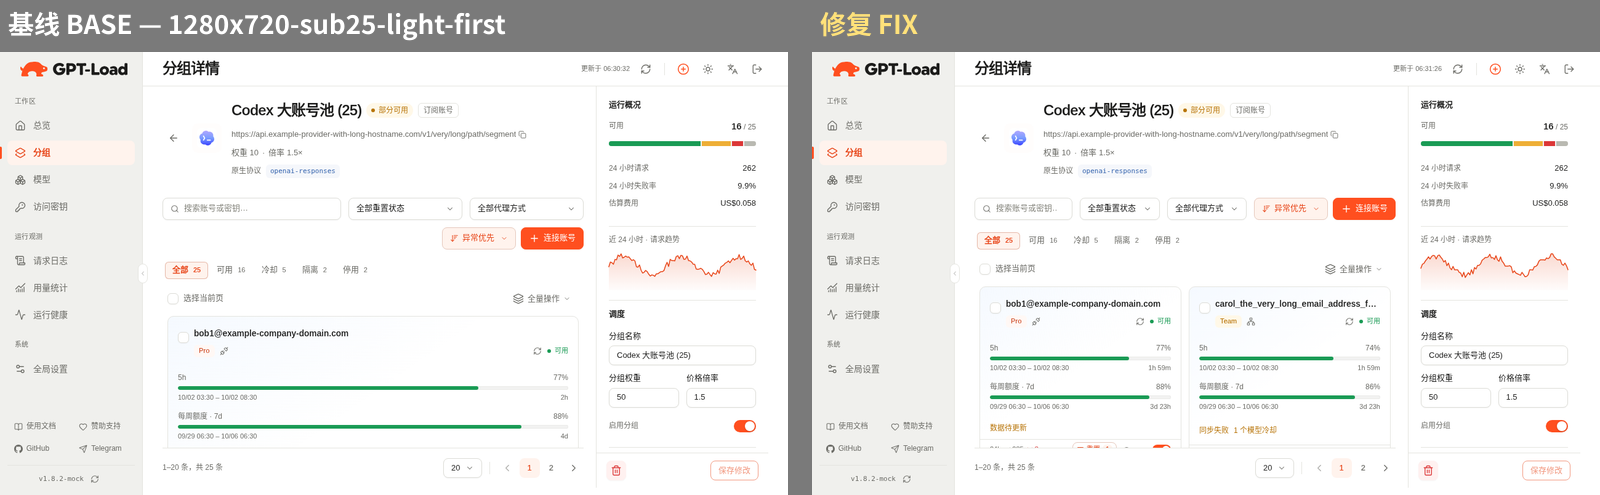
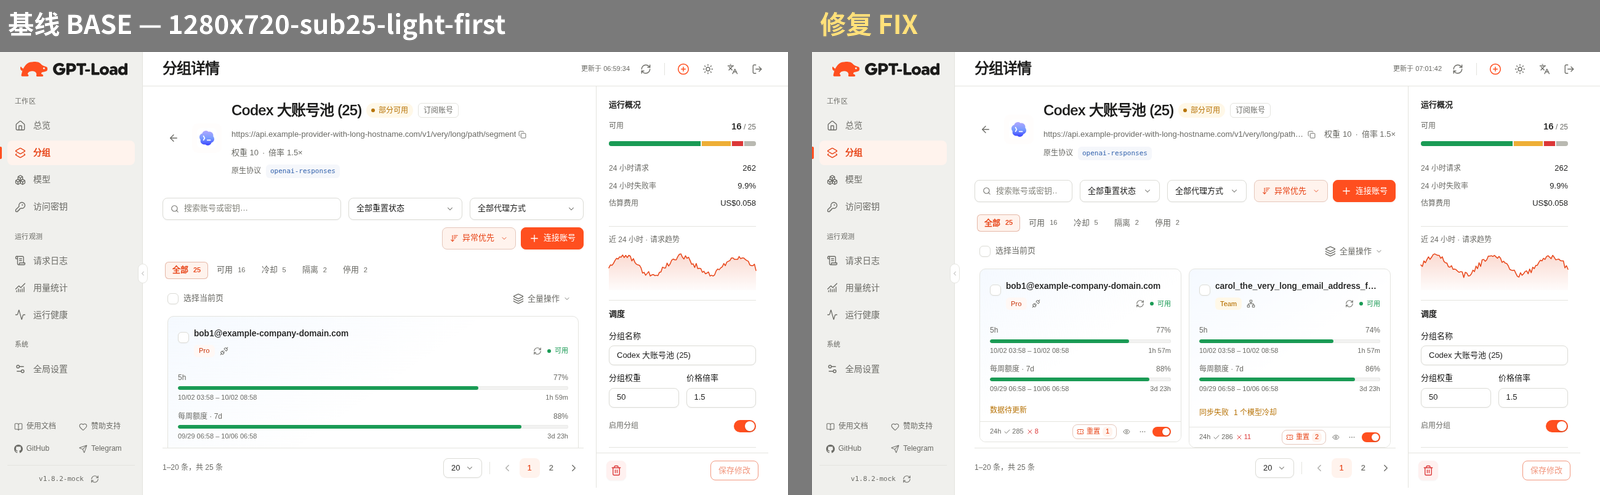
pr-assets: page 1 refreshed after round 3

diff --git a/README.md b/README.md
@@ -1,6 +1,6 @@
 # PR 对照图：①分组详情（手机/窄桌面适配）
 
-所有图均「左 = 基线 addd6987，右 = 修复（本 PR，含第二轮改动）」，同脚本、同视口、同 mock 数据、同 DPR（手机 2 / 桌面 1）、同等待时间；顶部标注基线/修复。宽度均 ≤1600px，单张 <1MB（PNG）。由 `/workspace/gpt-load-adapt/toolkit/run-page.sh group-detail ...` 生成。
+所有图均「左 = 基线 addd6987，右 = 修复（本 PR，含第三轮改动）」，同脚本、同视口、同 mock 数据、同 DPR（手机 2 / 桌面 1）、同等待时间；顶部标注基线/修复。宽度均 ≤1600px，单张 <1MB（PNG）。由 `/workspace/gpt-load-adapt/toolkit/run-page.sh group-detail ...` 生成。
 
 ## 手机整页长图（应用里是 `main.modern-content` 在滚；运行时展开滚动容器后截图，视口大小不变）
 | 文件 | 含义 |
